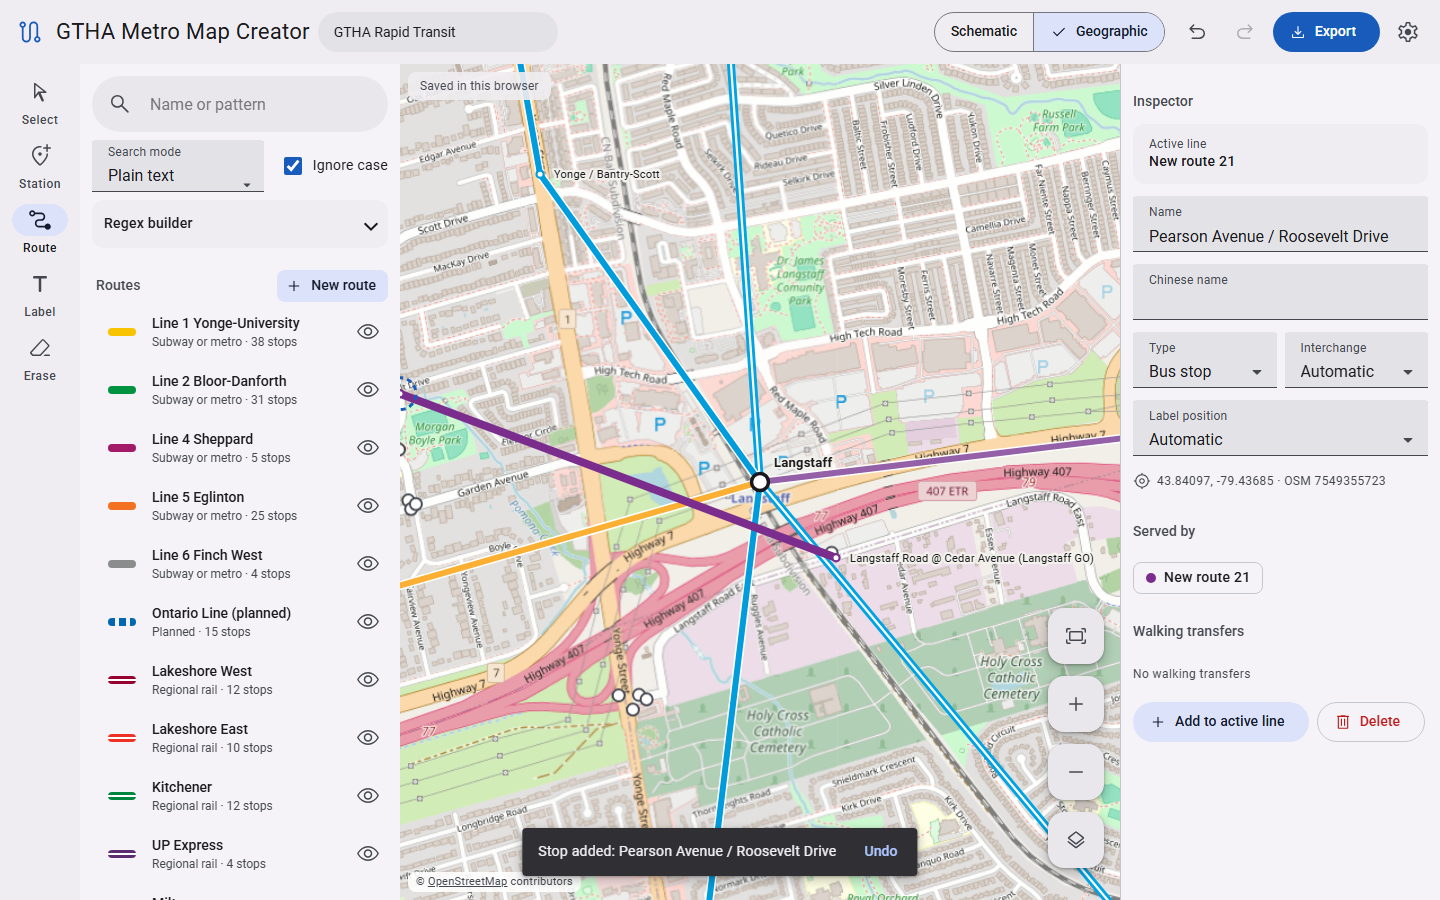
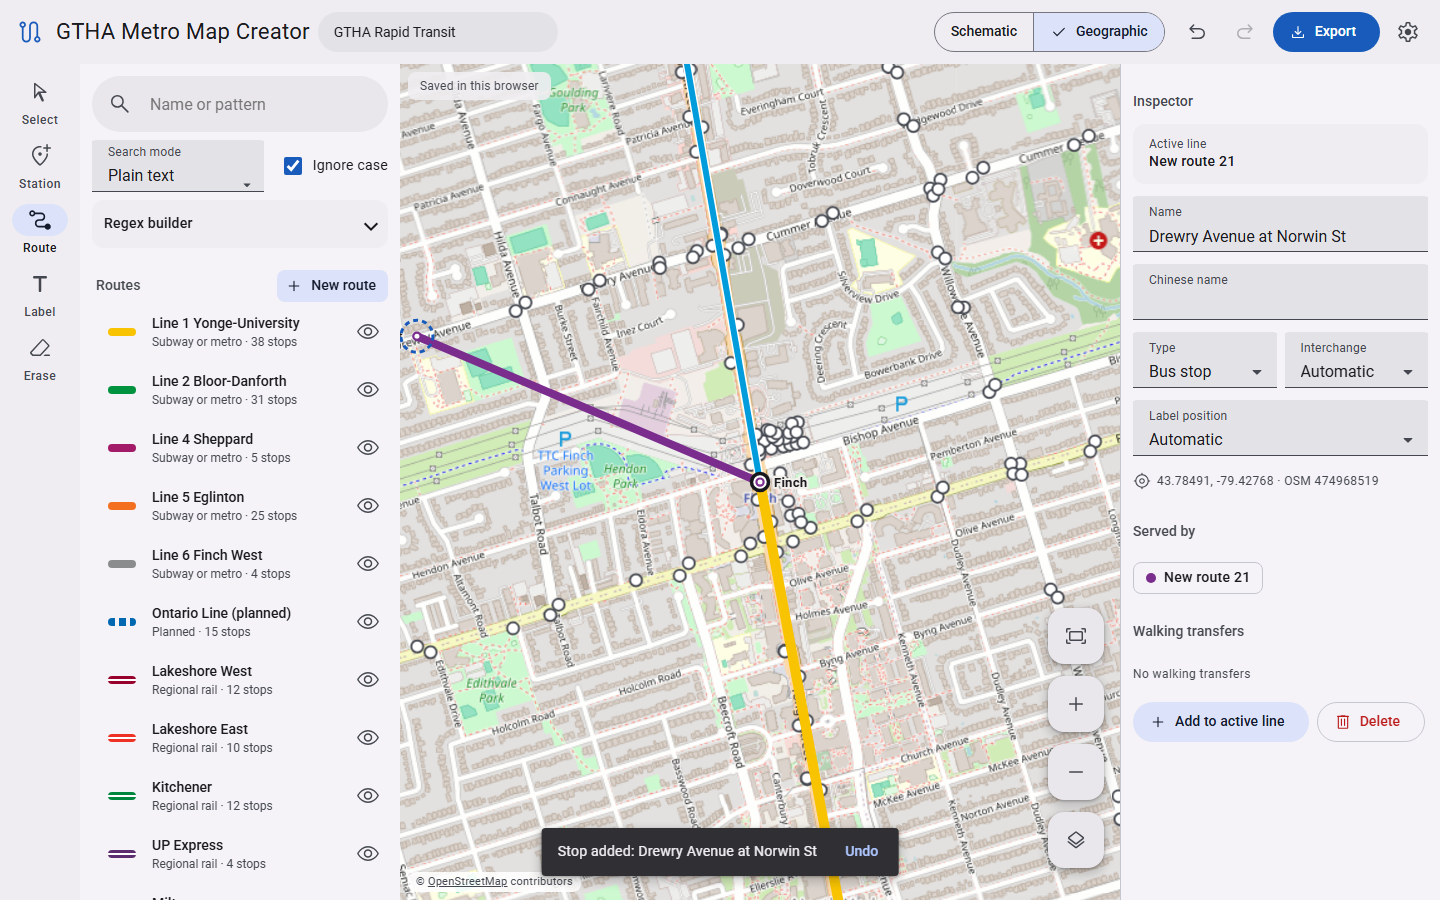
Wait long enough for busy OpenStreetMap stop servers
The stop loader gave each Overpass server 25 seconds, and the public server
answers busy queries in about 37, so the editor kept hanging up just before the
reply arrived. It now waits 60 seconds. With that, the live editor loads 112
real stops around Finch and routes can be drawn onto them, and the README shows
that genuine capture.

車站載入器之前畀每個 Overpass 伺服器 25 秒，但公共伺服器忙嘅時候要 37 秒先覆，
所以個編輯器次次就快收到答案就收線。而家等 60 秒，芬治附近 112 個真實車站載入到，
可以喺上面畫路線，README 亦換咗呢張真實擷圖。

Changed region(s): [[0.25, 0.0622, 0.9688, 1.0], [0.8125, 0.5289, 0.8438, 0.56]]

diff --git a/site/app/app.js b/site/app/app.js
@@ -528,7 +528,7 @@
       let j = null, lastErr = null;
       for (const ep of custom.concat(OVERPASS)) {
         try {
-          const ctl = new AbortController(), timer = setTimeout(() => ctl.abort(), 25000);
+          const ctl = new AbortController(), timer = setTimeout(() => ctl.abort(), 60000);
           const res = await fetch(ep, { method: 'POST', body: 'data=' + encodeURIComponent(q), headers: { 'Content-Type': 'application/x-www-form-urlencoded' }, signal: ctl.signal });
           clearTimeout(timer);
           if (!res.ok) throw new Error('HTTP ' + res.status);

diff --git a/docs/features/geographic.md b/docs/features/geographic.md
@@ -27,7 +27,7 @@ written into exports. Tiles need a network connection.
 At tile zoom 15 or more, `fetchLiveStops()` asks Overpass for `highway=bus_stop`,
 `public_transport=platform` and railway stations in the view (at most 400), debounced by 700 ms
 and cached by bounding box. It tries `settings.overpassUrl` (https, or http on localhost) and then
-three public servers, with a 25-second timeout each. Clicking a stop with the Route tool adds a
+three public servers, with a 60-second timeout each (busy public servers often take 30 to 40 seconds). Clicking a stop with the Route tool adds a
 station of type `stop` with the OSM name, position and node ID (`osm`) to the active route.
 
 Failure modes: public servers at capacity (HTTP 502/504) or rejecting the request (406); a
@@ -37,6 +37,5 @@ snackbar offers Retry. Only the bounding box of the current view is sent.
 
 - Headless Edge at 1440 x 900 and 390 x 844: fit, Viva selection, street-level view, schematic,
   dark Cantonese, export menu, settings; no horizontal overflow.
-- Drawing onto real stops: verified with OpenStreetMap platform data captured from Overpass the
-  same day and replayed by a local server, because every public Overpass server was at capacity
-  during testing.
+- Drawing onto real stops: verified against the public Overpass server with default settings
+  (112 stops around Finch, two added to a route), and earlier with the same data replayed locally.

diff --git a/HANDOFF.md b/HANDOFF.md
@@ -22,6 +22,13 @@ website export, project files, and a Material Design 3 interface with motion.
 - Schematic layout, dark theme with Cantonese, export menu, settings dialog; no horizontal
   overflow at 1440 or 390 px; no errors from the app.
 
+### Live stops against the public server (verified after 1.2.0)
+
+- The public Overpass server answered in about 37 seconds, past the 25-second timeout, so the
+  timeout was raised to 60 seconds. With default settings the editor then loaded 112 real stops
+  around Finch, and clicking two added "Finch" (OSM 56922363) and "Drewry Avenue at Norwin St"
+  (OSM 474968519) to a new route.
+
 ### 1.2.0 release (verified)
 
 - Release, Container image (x2) and Deploy site workflows succeeded for `28972a0`. `v1.2.0` is a
@@ -37,8 +44,6 @@ website export, project files, and a Material Design 3 interface with motion.
 
 ### Not verified for 1.2.0
 
-- Live stops against a public Overpass server: still at capacity when retried from the live site
-  (no stops after 60 seconds). The code path was verified with replayed OpenStreetMap data.
 - Wiki first page, Discussion pins and a GitHub Project: need a signed-in GitHub web page.
 
 ### 1.1.x release record

diff --git a/README.md b/README.md
@@ -19,7 +19,9 @@ Captured from version 1.2.0 in headless Microsoft Edge at 1440 x 900, 15 Novembe
 
 ![Geographic layout over OpenStreetMap with VIVA frequency badges and the route inspector](docs/screenshots/editor-geographic.png)
 
-![Street level: real stops from OpenStreetMap as grey dots, a new route drawn onto two of them](docs/screenshots/editor-real-stops.png)
+![Street level near Finch: 112 real stops from the public OpenStreetMap Overpass server as grey dots, and a new route drawn onto two of them](docs/screenshots/editor-real-stops.png)
+
+Earlier captures are listed in [docs/screenshots/ARCHIVE.md](docs/screenshots/ARCHIVE.md).
 
 ![Dark theme with English and Cantonese names](docs/screenshots/editor-dark-bilingual.png)
 

diff --git a/docs/screenshots/ARCHIVE.md b/docs/screenshots/ARCHIVE.md
@@ -1,0 +1,5 @@
+# Screenshot archive
+
+| File | Captured | Provenance | Replaced by |
+| --- | --- | --- | --- |
+| `archive/2026-11-15-real-stops-replayed.png` | 2026-11-15, version 1.2.0, headless Edge 1440 x 900 | Stops from OpenStreetMap data captured from Overpass that day and replayed by a local server, because public servers were at capacity | `editor-real-stops.png`, captured the same day against the public Overpass server |
